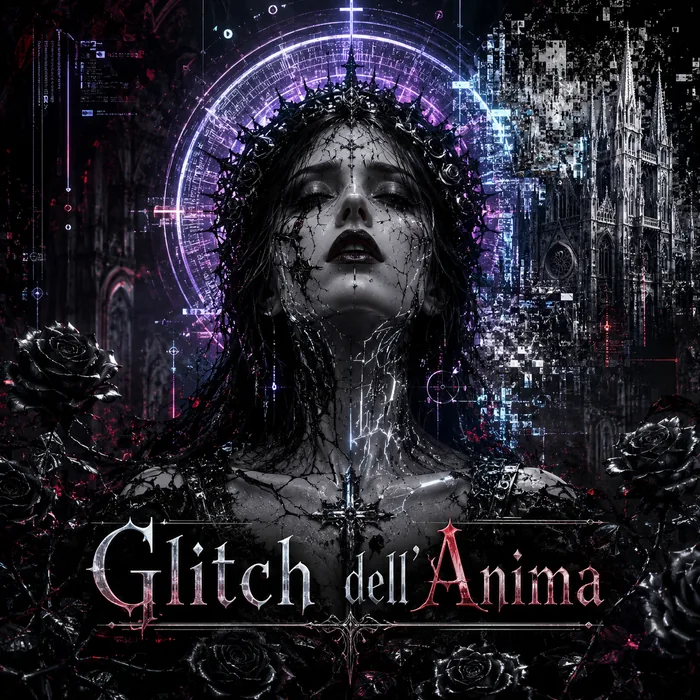
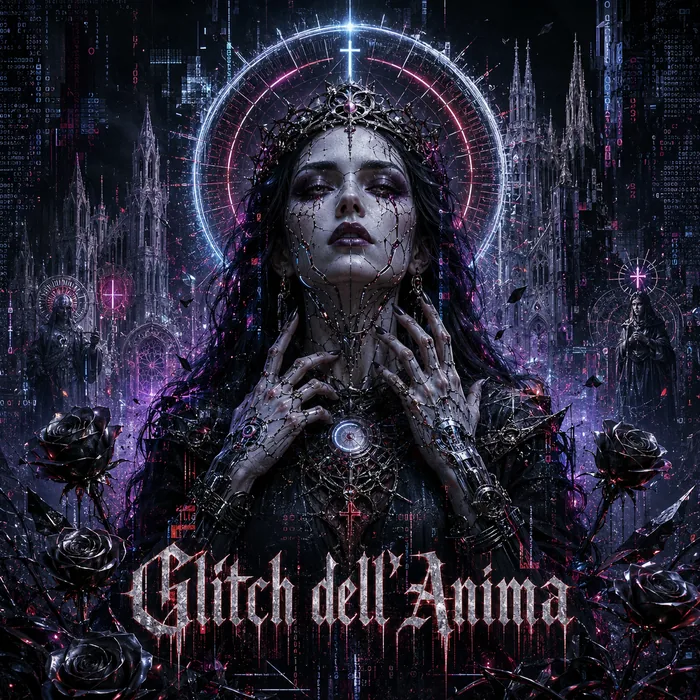
docs(music): update glitch album

diff --git a/apps/music/src/utils/appShellConfig.ts b/apps/music/src/utils/appShellConfig.ts
@@ -76,7 +76,13 @@ export const musicAppShellConfig = buildAppShellConfig({
   brandLogoAlt: "MelodyMind Music",
   brandAriaLabel: "Go to the MelodyMind Music homepage",
   navAriaLabel: "Music navigation",
-  headerNavItems: [],
+  headerNavItems: [
+    {
+      href: "/about",
+      label: "About",
+      icon: "info",
+    },
+  ],
   footerBrandText:
     "Original AI-generated music spanning genres from ambient soundscapes to pop productions.",
   footerExploreLinks: [